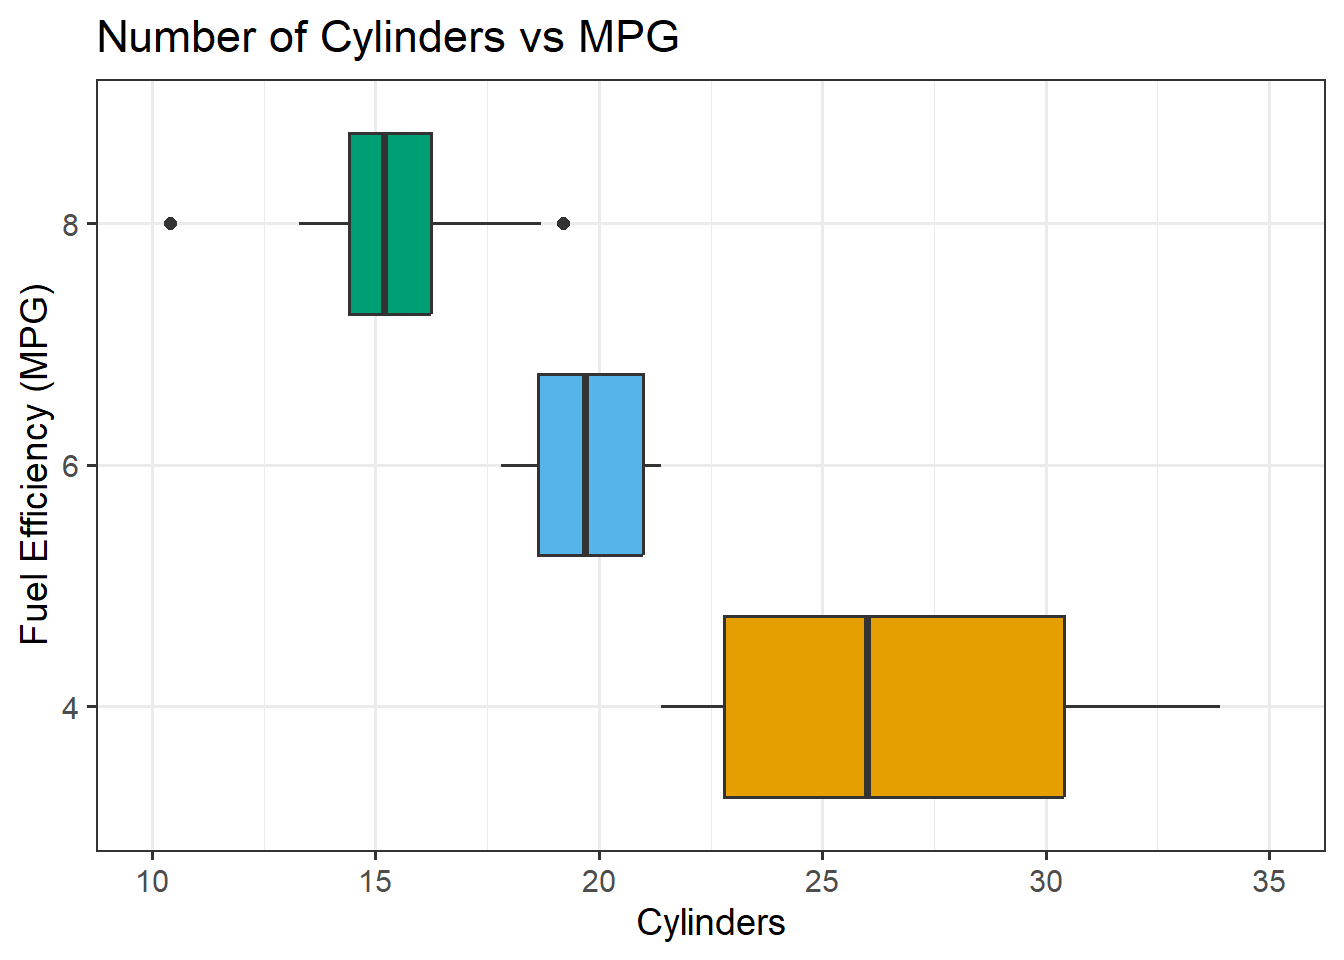
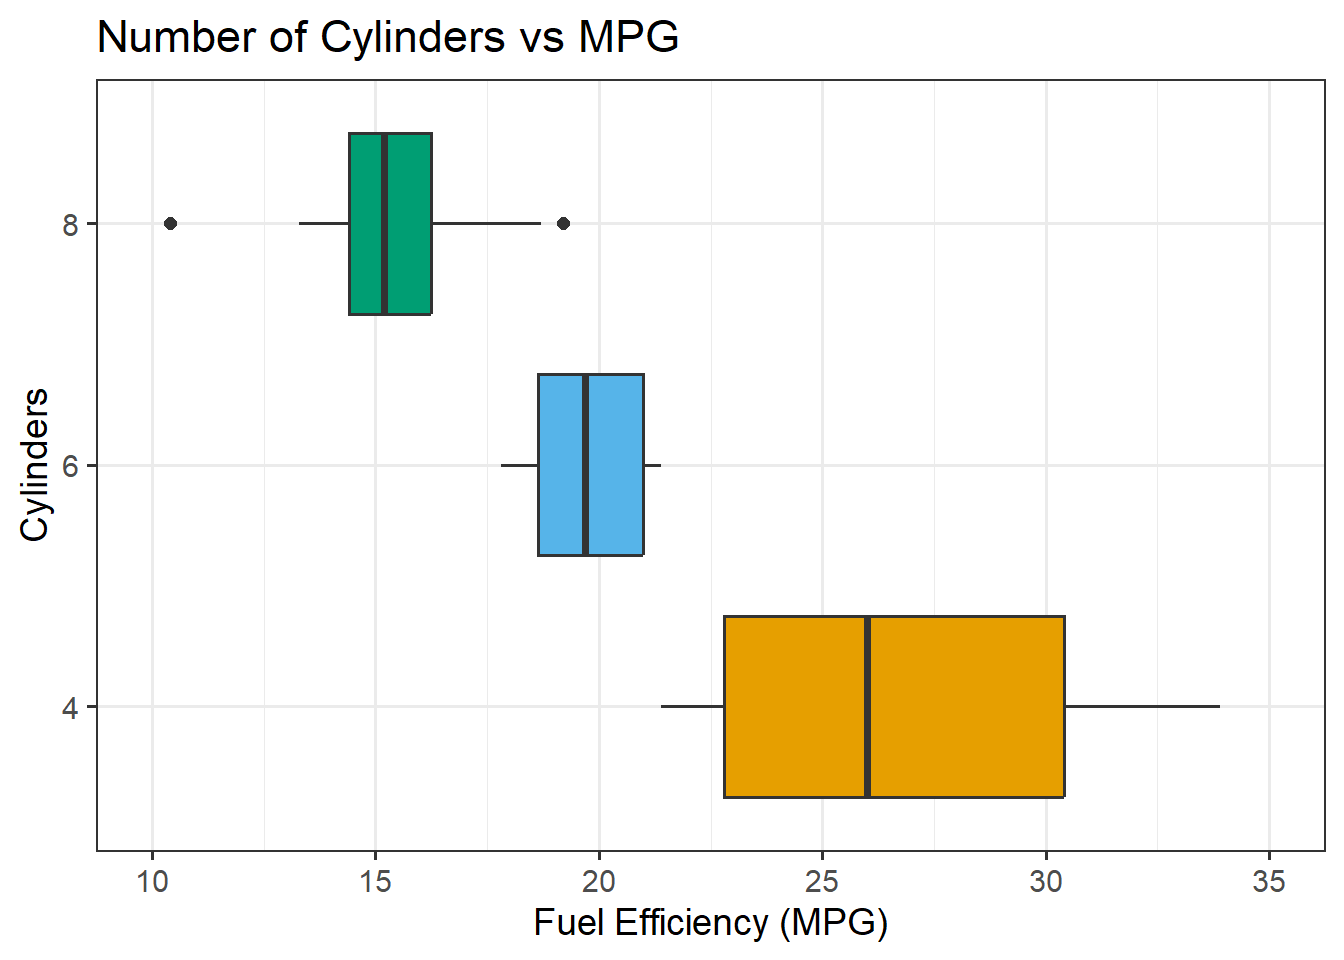
Built site for gh-pages

Changed region(s): [[0.0, 0.3125, 0.0625, 0.6875], [0.375, 0.9375, 0.6562, 1.0]]

diff --git a/notes/welcome.html b/notes/welcome.html
@@ -225,8 +225,8 @@ pre > code.sourceCode > span > a:first-child::before { text-decoration: underlin
 <span id="cb3-4"><a href="#cb3-4" aria-hidden="true" tabindex="-1"></a>  <span class="fu">scale_x_continuous</span>(<span class="at">breaks =</span> <span class="fu">seq</span>(<span class="dv">10</span>, <span class="dv">35</span>, <span class="dv">5</span>)) <span class="sc">+</span></span>
 <span id="cb3-5"><a href="#cb3-5" aria-hidden="true" tabindex="-1"></a>  <span class="fu">coord_cartesian</span>(<span class="at">xlim =</span> <span class="fu">c</span>(<span class="dv">10</span>, <span class="dv">35</span>)) <span class="sc">+</span></span>
 <span id="cb3-6"><a href="#cb3-6" aria-hidden="true" tabindex="-1"></a>  <span class="fu">labs</span>(<span class="at">title =</span> <span class="st">"Number of Cylinders vs MPG"</span>,</span>
-<span id="cb3-7"><a href="#cb3-7" aria-hidden="true" tabindex="-1"></a>       <span class="at">x =</span> <span class="st">"Cylinders"</span>,</span>
-<span id="cb3-8"><a href="#cb3-8" aria-hidden="true" tabindex="-1"></a>       <span class="at">y =</span> <span class="st">"Fuel Efficiency (MPG)"</span>) <span class="sc">+</span></span>
+<span id="cb3-7"><a href="#cb3-7" aria-hidden="true" tabindex="-1"></a>       <span class="at">y =</span> <span class="st">"Cylinders"</span>,</span>
+<span id="cb3-8"><a href="#cb3-8" aria-hidden="true" tabindex="-1"></a>       <span class="at">x =</span> <span class="st">"Fuel Efficiency (MPG)"</span>) <span class="sc">+</span></span>
 <span id="cb3-9"><a href="#cb3-9" aria-hidden="true" tabindex="-1"></a>  <span class="fu">guides</span>(<span class="at">fill =</span> <span class="st">"none"</span>) <span class="sc">+</span></span>
 <span id="cb3-10"><a href="#cb3-10" aria-hidden="true" tabindex="-1"></a>  <span class="fu">theme_bw</span>(<span class="at">base_size =</span> <span class="dv">14</span>)</span></code></pre></div><button title="Copy to Clipboard" class="code-copy-button"><i class="bi"></i></button></div>
 <div class="cell-output-display">

diff --git a/notes.html b/notes.html
@@ -216,7 +216,7 @@ window.Quarto = {
 
 <div class="quarto-listing quarto-listing-container-default" id="listing-listing">
 <div class="list quarto-listing-default">
-<div class="quarto-post image-right" data-index="0" data-categories="bWV0YQ==" data-listing-date-sort="1782284400000" data-listing-file-modified-sort="1782358855066" data-listing-date-modified-sort="NaN" data-listing-reading-time-sort="1" data-listing-word-count-sort="192">
+<div class="quarto-post image-right" data-index="0" data-categories="bWV0YQ==" data-listing-date-sort="1782284400000" data-listing-file-modified-sort="1782359065464" data-listing-date-modified-sort="NaN" data-listing-reading-time-sort="1" data-listing-word-count-sort="192">
 <div class="body">
 <h3 class="no-anchor listing-title">
 <a href="./notes/welcome.html" class="no-external">Starting a notes section</a>